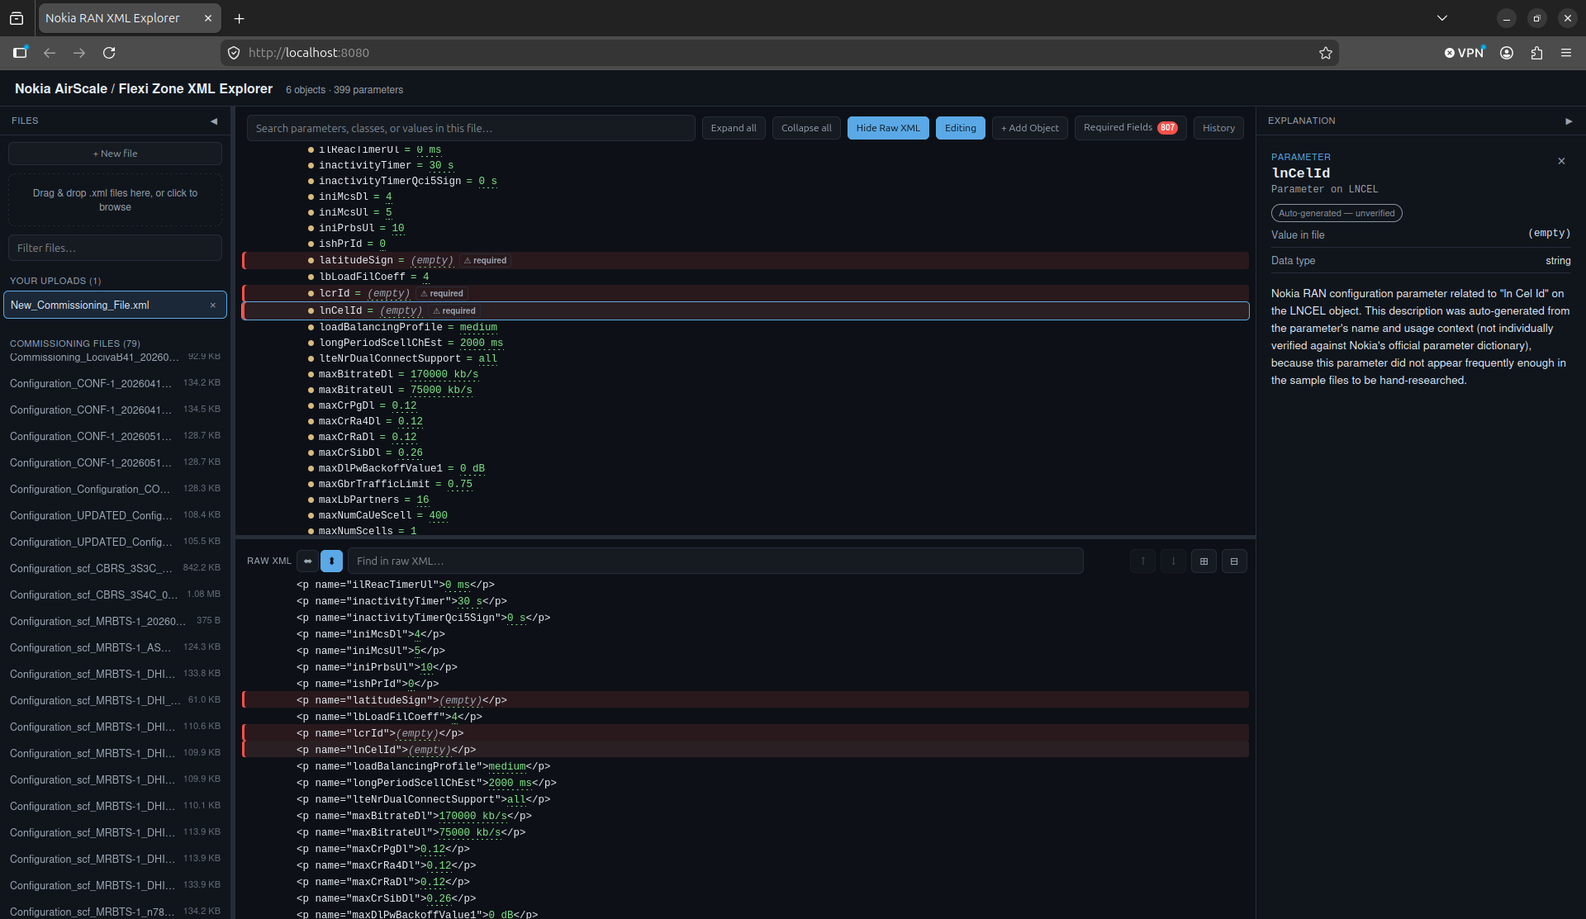
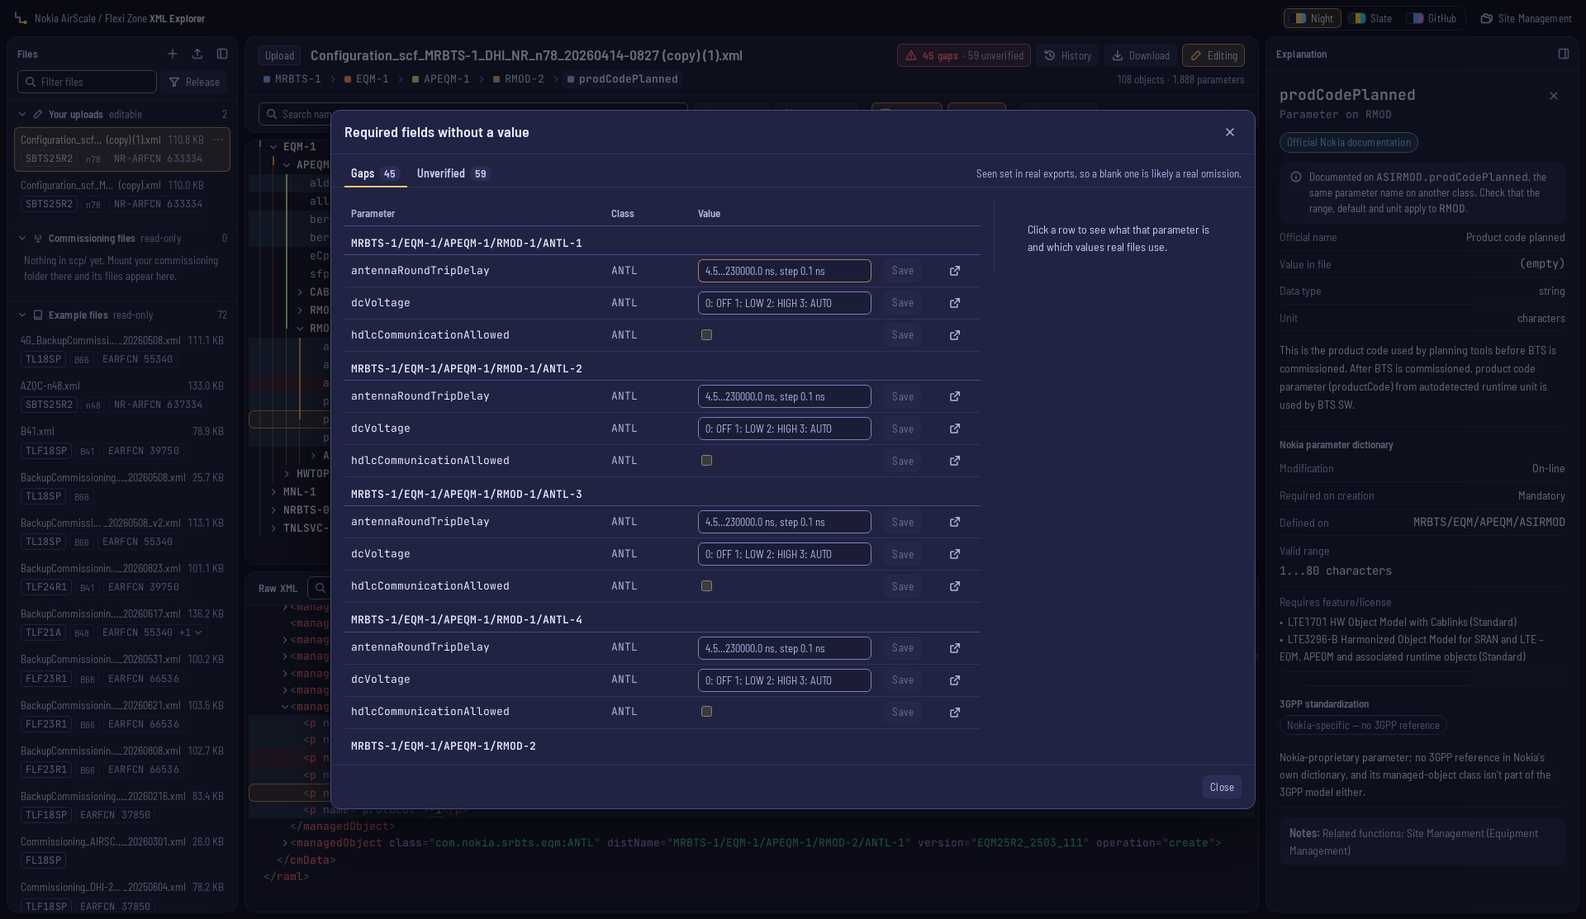
Update README, CLAUDE.md and screenshots for the new UI
README: the feature list now describes the current screen (Release
filter, Trace, keyboard, themes, Edit / Edit a copy, History labels,
Download, Required Fields Gaps/Unverified), the instance-id exception,
the new design docs, and two new limitations (desktop only, no row
virtualization). Both screenshots were retaken from example files.

CLAUDE.md: the instance-id rule and _is_mandatory(), the render-
performance and keyboard invariants, where the design system and theme
tokens live, desktop-only scope, and how the UI was verified.

diff --git a/README.md b/README.md
@@ -28,7 +28,7 @@ files never leave your machine.
 
 **Status:** early, functional, actively developed. `v0.07`.
 
-![Browsing a commissioning file side-by-side with its raw XML, with a full parameter explanation on the right](screenshots/main-page.png)
+![Browsing a commissioning file with its raw XML in sync underneath, the selected parameter's path traced in the header, and a full parameter explanation on the right](screenshots/main-page.png)
 
 Click any object, parameter, or table row for a plain-English explanation
 sourced from Nokia's own parameter dictionaries. The raw XML pane stays in
@@ -44,69 +44,84 @@ you still need to set, tracked file-wide in the "Required Fields" panel.
 
 - Lists every `.xml` file placed in `scp/` (your commissioning files),
   alongside your uploads and the bundled examples, as three collapsible
-  color-coded sidebar sections (collapsed state is remembered per
-  browser).
+  sidebar sections (collapsed state is remembered per browser).
 - Each file in the sidebar is tagged at a glance with its **BTS software
   release** (e.g. `SBTS20C`, `FLF23R1`, `TL18SP`) and its own cells'
   **EARFCN / NR-ARFCN** values (read from the file's contents), plus
   **band** and **export date** (parsed from the file name). The
-  **Filter** button in the top bar narrows the list to one or more
+  **Release** filter at the top of the file list narrows it to one or more
   software releases, grouped by family.
 - Parses the flat RAML `managedObject` list into a real parent/child tree,
   reconstructed from each object's `distName` path (equipment → cabinet →
   baseband/radio modules → LTE/NR cells → features), instead of the raw
   flat XML order.
-- **Click** a row to expand/collapse it. **Double-click** any object,
-  parameter, table (`list`), or table row for a full plain-English
-  explanation in the right-hand panel.
+- **Click** any object, parameter, table (`list`), or table row to expand it
+  and get a full plain-English explanation in the right-hand panel. Values
+  line up in one column, so a run of parameters scans top to bottom.
+- **Trace**: the selected row's path from the root lights up in the tree's
+  colour-coded depth guides, and the same path shows as a clickable address
+  in the file header (`MRBTS-1 › EQM-1 › APEQM-1 › …`), next to the file's
+  object and parameter counts.
 - Full-text search box filters the tree by parameter name, class, or value,
   highlighting matches inline. "Expand all" / "Collapse all" buttons for
   quickly opening up (or flattening) a whole file.
-- **Show Raw XML** splits the view to show the file exactly as written —
-  real tags, attributes, and nesting, drill-down collapsible like a browser's
-  built-in XML viewer — side by side with the reconstructed tree. Choose
-  **side-by-side or stacked (top/bottom)** layout, and drag to resize either
-  way. Clicking a node in **either** tree scrolls to, expands, and highlights
-  the corresponding node in the other. The raw pane has its own find bar
-  (with match count and prev/next navigation) for searching the literal XML
-  text.
+- **Raw XML** (toolbar toggle) shows the file exactly as written — real
+  tags, attributes, and nesting, syntax-coloured and drill-down collapsible
+  like a browser's built-in XML viewer — under the reconstructed tree or
+  side by side with it, and resizable either way. Clicking a node in
+  **either** pane scrolls to, expands, and highlights the corresponding node
+  in the other. The raw pane has its own find bar (with match count and
+  prev/next navigation) for searching the literal XML text.
+- **Keyboard**: both panes work as keyboard trees. Arrow keys move and
+  open/close, Home/End jump to the first/last row, Enter edits a value (or
+  opens a branch), Delete removes the selected row (tree pane), and
+  Shift+F10 or the menu key opens the row's menu. Dialogs close with Esc
+  and keep focus inside them.
 - The file sidebar and the explanation panel can each be collapsed to a thin
-  strip to reclaim screen space, and both are resizable by dragging their
-  edge.
-- **Highlight Official** (toolbar toggle, on by default) tints every row
-  whose explanation comes verbatim from Nokia's own parameter dictionary,
-  in both panes, so you can tell documented settings from researched or
-  heuristic ones without opening each one.
+  rail to reclaim screen space, and both resize by dragging the gap between
+  panels.
+- **Colour themes**: three dark themes — **Night** (the default), **Slate**
+  and **GitHub** — picked in the top bar and remembered per browser.
+- **Official** (toolbar toggle, on by default) tints every row whose
+  explanation comes verbatim from Nokia's own parameter dictionary, in both
+  panes, so you can tell documented settings from researched or heuristic
+  ones without opening each one.
 - **3GPP spec links**: the explanation panel shows whether a class or
   parameter is 3GPP-standardized, with direct links to the relevant
   specs, and says plainly when something is Nokia-proprietary or only
   inherits a class-level judgment rather than guessing a citation.
-- **Upload your own XML files** via the drag-and-drop card at the top of the
-  sidebar (or click it to browse). Uploaded files are validated as RAML XML
-  before being accepted, listed separately under "Your uploads," and can be
-  deleted from there with the × button.
-- **Edit Mode**: click any parameter's value (in either pane) to edit it in
-  place. `scp/` originals stay read-only forever — editing one first makes
-  an editable copy in "Your uploads" via a one-click banner, so the source
-  file is never touched. Every edit is validated (re-parsed) before being
-  written to disk. Parameters with a known, closed set of legal values
+- **Upload your own XML files** with the upload button at the top of the
+  file list, or drop them anywhere on the list. Uploaded files are validated
+  as RAML XML before being accepted and listed separately under "Your
+  uploads". Each file's "⋯" menu (or right-click) offers **Download** and
+  **Delete**; deleting asks first and says how many history snapshots go
+  with the file.
+- **Editing**: turn on **Edit** in the file header, then click any
+  parameter's value (in either pane) to edit it in place. `scp/` and example
+  files stay read-only forever — **Edit a copy** makes an editable copy in
+  "Your uploads" first, so the source file is never touched. Every edit is
+  validated (re-parsed) before being written to disk and confirmed with a
+  "Saved · Undo" notice. Parameters with a known, closed set of legal values
   (booleans and enums) edit through a dropdown instead of free text.
-- **History**: every edit automatically snapshots the file's prior state, so
-  you can open the History panel on any uploaded/edited file and restore an
-  earlier version if something goes wrong. Restoring itself is undoable —
-  it snapshots the current state first.
+- **History**: every edit automatically snapshots the file's prior state,
+  labelled with what changed (e.g. "Set pMax on NRCELL-0 to '420'"). Open
+  **History** in the file header to restore an earlier version if something
+  goes wrong. Restoring itself is undoable — it snapshots the current state
+  first.
+- **Download** any file's current contents from the file header.
 - A file-level "File Info" node explains the `raml`/`cmData`/`header`/`log`
   wrapper elements themselves.
-- **Generate new XML**: "+ New file" in the sidebar creates a blank, valid
-  commissioning file; "+ Add Object" builds a real `<managedObject>` from a
-  form — pick a parent (defaults to whatever's currently focused), pick a
+- **Generate new XML**: the **+** button at the top of the file list creates
+  a blank, valid commissioning file; **Add object** in the toolbar builds a
+  real `<managedObject>` from a form — pick a parent (defaults to whatever's
+  currently focused), pick a
   class (narrowed to classes actually observed under that parent in your
   corpus), fill in parameters with corpus-grounded suggestions, and it's
   appended with an auto-numbered `distName`, the right namespace-qualified
   class string, and a matching `version` borrowed from a sibling in the same
   file. Every generated object is re-parsed before being written, and, like
   any other edit, automatically snapshotted first.
-- **🗂 Site Management** (top of the page): a virtual folder/tag/site
+- **Site Management** (top bar): a virtual folder/tag/site
   catalog over every file the app knows about — uploads, `scp/`, and
   `example/` alike. Folders and tags are pure metadata (see
   `backend/app/sitemgmt.py`); creating, nesting, or deleting a folder, or
@@ -159,7 +174,7 @@ This tool ships a knowledge base built in three layers:
 3. **Generator parameter catalog.** `scripts/build_class_catalog.py` builds
    `backend/app/data/class_catalog.json`, additionally widening each class's
    known parameters with official-only ones never exercised by a sample file
-   (flagged `observed: false`, shown with a ⚑ in the "Add Object" form) —
+   (flagged `observed: false`, shown with a flag icon in the "Add object" form) —
    currently **1,682** such parameters across the corpus's 256 classes.
 
 Every explanation in the UI carries a **confidence badge**:
@@ -192,7 +207,7 @@ tools Nokia field engineers use (one with full VBA macros, reverse-engineered
 in `ref/` analysis). All three follow the same underlying pattern: one sheet
 per MO class, a header row of parameter names, one data row per instance,
 and a handful of leading columns whose values get concatenated into the
-`distName`. This tool's generator (`+ New file`, `+ Add Object`) implements
+`distName`. This tool's generator (New file, Add object) implements
 that same pattern natively, but goes further than the spreadsheets could:
 
 - `scripts/build_class_catalog.py` builds `backend/app/data/class_catalog.json`
@@ -206,7 +221,7 @@ that same pattern natively, but goes further than the spreadsheets could:
 - The catalog is then **widened twice over**:
   - With parameters valid for a class per the official dictionaries but
     never exercised by a sample file (marked `observed: false`, shown with
-    a ⚑) — these fall back to the official range text as a hint, since
+    a flag icon) — these fall back to the official range text as a hint, since
     there's no real-file value to ground a suggestion in yet.
   - With **every class either official dictionary documents** (490 total),
     not just the ~256 your corpus happens to use — so you can generate
@@ -236,7 +251,7 @@ that same pattern natively, but goes further than the spreadsheets could:
   cutoff.
 - **Every other Mandatory parameter is auto-filled with its real default,
   not left out.** For any Mandatory parameter you don't explicitly set,
-  `+ Add Object` writes its official default value into the generated
+  Add object writes its official default value into the generated
   `<managedObject>` automatically, so the object is usable as written rather
   than silently missing fields a strict Nokia loader would reject.
   `scripts/build_class_catalog.py`'s `resolve_default_for_xml()` does the
@@ -255,23 +270,35 @@ that same pattern natively, but goes further than the spreadsheets could:
   instead of being omitted. That way every Mandatory field is visible and
   accounted for right after creation, not something you have to already
   know to go add yourself. Both the logical tree and the Raw XML view
-  red-highlight (⚠ required) any row that's Mandatory per the docs but still
-  has no value — including the rare case (~1.6% of resolvable defaults) where
-  a documented default couldn't be confidently translated into a real-file
-  value, so it also comes through blank and flagged rather than silently
-  wrong. A **"Required Fields"** toolbar button (badge shows the live count)
-  opens a table of every such gap across the *whole file* — object, class,
-  parameter, and an inline input to fill it in on the spot via
-  `PUT /api/files/{filename}/objects/param`, the same upsert endpoint "+ Add
-  Parameter" uses — so you can clear every red flag from one place instead
-  of hunting through the tree row by row. Clicking a row opens a side panel
-  with that parameter's full explanation (description, valid range, unit,
-  values actually seen in your files) — the same information ExplainPanel
-  shows, built from the row data the endpoint already returns, no extra
-  lookup needed.
-- **You're not limited to what you set at creation.** Double-click any
-  managed object (in Edit Mode) for a "+ Add Parameter" button that offers
-  every remaining known parameter for that class — the generator form
+  red-highlight (with a "required" tag) any row that's Mandatory per the docs
+  but still has no value — including the rare case (~1.6% of resolvable
+  defaults) where a documented default couldn't be confidently translated
+  into a real-file value, so it also comes through blank and flagged rather
+  than silently wrong. The completeness control in the file header (e.g.
+  "41 gaps · 59 unverified") opens a **Required Fields** table of every such
+  parameter across the *whole file*, split into **Gaps** (parameters real
+  files do set) and **Unverified** (documented as Mandatory but never seen
+  set in any sample file) — object, class, parameter, and an inline input to
+  fill it in on the spot via `PUT /api/files/{filename}/objects/param`, the
+  same upsert endpoint "Add parameter" uses — so you can clear every red flag
+  from one place instead of hunting through the tree row by row. Clicking a
+  row opens a side panel with that parameter's full explanation
+  (description, valid range, unit, values actually seen in your files) — the
+  same information ExplainPanel shows, built from the row data the endpoint
+  already returns, no extra lookup needed.
+- **An object's own ID parameter is the one exception.** The dictionaries
+  list each class's instance-ID parameter (`nrcellId` on `NRCELL`, `rModId`
+  on `RMOD`, …) as Mandatory, but the ID already lives in the object's
+  `distName` (`RMOD-2`), and none of the real files in the corpus writes it
+  as a `<p>`. So the generator doesn't write it, the Add object form doesn't
+  ask for it (it has its own Instance ID field), it's never flagged as
+  missing, and an empty placeholder for it left by an older version of this
+  tool can be deleted. Every other Mandatory parameter is still always
+  written, filled or flagged.
+- **You're not limited to what you set at creation.** Select any managed
+  object (while editing) for an **Add parameter** button in the explanation
+  panel that offers every remaining known parameter for that class — the
+  generator form
   intentionally doesn't force you to fill in a class's entire parameter set
   up front (some have 500+), so this is how you come back and add more
   later without recreating the object.
@@ -283,7 +310,7 @@ that same pattern natively, but goes further than the spreadsheets could:
   expected, confirmed against the actual corpus, not a bug).
 - Every generated or added parameter is re-parsed before being written to
   disk, and, like any edit, automatically snapshotted first.
-- **"+ Add Object" cascades into required child objects, all the way down.**
+- **Add object cascades into required child objects, all the way down.**
   Neither official dictionary (nor any XSD -- there isn't one in `ref/`)
   records MO-class cardinality: they say whether a *parameter* is Mandatory,
   never whether a *child class* must exist at all under a given parent. The
@@ -303,15 +330,16 @@ that same pattern natively, but goes further than the spreadsheets could:
   (e.g. it won't guess a cell count) — just the minimum one instance needed
   to satisfy each inferred requirement.
 - **Objects and non-Mandatory parameters can be deleted, and objects can be
-  renamed** (Edit Mode) via `DELETE /api/files/{filename}/objects`,
+  renamed** (while editing) via `DELETE /api/files/{filename}/objects`,
   `DELETE /api/files/{filename}/objects/param`, and
-  `PUT /api/files/{filename}/objects/rename`. Two ways to reach these: a
-  small × button near the start of each row (deliberately placed right after
-  the label/tag rather than at the row's end, since a long value or distName
-  can push "the end" of a row past the visible edge of these
-  horizontally-scrolling panes), or **right-click any object or parameter
-  row for a context menu** -- the more reliable option, since it opens at
-  the cursor regardless of row width or scroll position. The context menu
+  `PUT /api/files/{filename}/objects/rename`. Three ways to reach these: a
+  small × button at the end of each tree row's label column (deliberately
+  there rather than at the row's end, since a long value or distName can
+  push "the end" of a row past the visible edge of these
+  horizontally-scrolling panes), the Delete key on a focused tree row, or
+  **right-click any object or parameter row (or press Shift+F10) for a
+  context menu** -- the more reliable option, since it opens at the row
+  regardless of row width or scroll position. The context menu
   also has **Rename**, which changes just an object's trailing instance
   number (e.g. `LNCEL-1` → `LNCEL-0`, same class and parent) and rewrites
   the same prefix on every descendant's `distName`, since RAML distNames are
@@ -378,6 +406,9 @@ anything longer-lived.
 
 ```
 CLAUDE.md               Short repo guide for Claude Code (commands, architecture invariants, data rules)
+PRODUCT.md              Who the tool is for, the jobs it does, and its brand commitments
+DESIGN.md               The UI design system ("Fiber Code"): themes, type, layout, shapes, components
+.impeccable/            Design-tool sidecar (design.json, surface notes) used by the Impeccable plugin
 example/                Bundled sample commissioning files, baked into the image (INCLUDE_EXAMPLES=false to hide)
 scp/                    Your Nokia commissioning/configuration XML files (read-only mount)
 uploads/                Files uploaded through the UI, and editable copies of scp/ files (writable mount)
@@ -388,7 +419,7 @@ ref/pdf/                Flat copy of every PDF found anywhere under ref/ (manual
 ref/extracted/          JSON extracted from ref/ by extract_official_reference.py / extract_sbts18a_reference.py
 backend/app/            FastAPI app: XML→tree parser, knowledge API, heuristic fallback, upload/edit/snapshot/generator handling
 backend/app/data/       Merged knowledge base (classes.json, parameters.json, class_catalog.json)
-frontend/               React + Vite tree-view UI
+frontend/               React + Vite tree-view UI (no UI library; fonts bundled via @fontsource, so it works offline)
 research/               Inputs/outputs of the knowledge-base research pass (not shipped in the image)
 scripts/extract_inventory.py          Re-scans scp/ for every class/parameter name in use
 scripts/build_knowledge.py            Merges research/output/* + heuristics into backend/app/data/*.json
@@ -444,6 +475,11 @@ they're offline tooling, not a runtime dependency of the app itself.
   renamed; `<list>`/`<item>` tables are read-only.
 - No authentication: run it locally or behind your own auth layer, not on
   the open internet.
+- **Desktop only.** The layout is built for a desktop browser window; it
+  isn't designed for phones or tablets.
+- **Very large files are slow to expand fully.** Every visible row is
+  rendered (no virtualization yet), so "Expand all" on a ~1 MB file with
+  ~23,000 rows takes 10+ seconds. Clicking and selecting stay fast.
 - Two files prefixed `WWW_` were added from a web search for publicly
   available Nokia sample files (see git-free provenance: they came from
   `github.com/ruboarm/Nokia-XML-Dump-Parser` and `github.com/SBramhesh/Motu`,

diff --git a/CLAUDE.md b/CLAUDE.md
@@ -31,7 +31,7 @@ cd frontend && npm run build                   # -> frontend/dist
 - Exercise the changed endpoints with `curl`.
 - Regression-check that every file in `scp/` and `example/` still parses through `GET /api/files/{name}/tree` and `/raw`.
 
-No one has ever tested the UI interactively in a browser, so frontend-only bugs (layout, React key reconciliation) won't show up in API checks.
+There is no browser test suite either. The UI refactor was checked with throwaway headless-Chromium (Playwright) scripts that aren't kept in the repo. Frontend-only bugs (layout, React key reconciliation, keyboard focus, render performance on the ~23k-row files) won't show up in API checks, so drive the UI in a browser after UI changes.
 
 ## Knowledge-base pipeline (offline, order matters)
 
@@ -81,13 +81,18 @@ Re-serialization normalizes whitespace, and that is accepted. `_serialize()` mus
 - "Mandatory" parameters with a resolvable default are auto-filled with the *real-file* value, not the documented enum code (`resolve_default_for_xml()`).
 - Mandatory parameters with no default are written as empty `<p name="X"/>` placeholders and flagged `requiredMissing`, never omitted. In `add_managed_object`, a `None` value is skipped but `""` is written.
 - Mandatory parameters can't be deleted.
-- `requiredMissing` is computed from `requiredOnCreation == "Mandatory"` plus the value being empty, not from the catalog's `trulyRequired` flag.
+- `requiredMissing` is computed from `_is_mandatory()` plus the value being empty, not from the catalog's `trulyRequired` flag.
+- The one exception to all three rules is a class's own instance-id parameter (`nrcellId` on `NRCELL`, `rModId` on `RMOD`; `_is_instance_id_param`). The dictionaries call it Mandatory, but the id lives in the `distName` and no file in the corpus writes it as a `<p>`. `_is_mandatory()` returns False for it, so the generator doesn't write it, it's never flagged, it can be deleted, and `GET /api/catalog/classes/{name}` leaves it out of the Add Object form. Route every Mandatory check through `_is_mandatory()`.
 - Required child classes come from a corpus heuristic (the child is present under every observed parent instance) and are created recursively.
 - Only scalar `<p>` parameters are supported; `<list>`/`<item>` tables are read-only.
 
 **Site Management** is a pure metadata layer (folders, tags, sites) stored as JSON in `sitemgmt/`. It never moves or renames real files. Metadata is keyed by `(source, filename)`, not bare filename; a collision bug came from that (§10.6).
 
-**Frontend.** All cross-cutting state lives in `App.jsx` and is passed down as props. `src/api.js` wraps every endpoint. Use the in-app toast/confirm/prompt components; never native `alert`/`confirm`/`prompt`. `scrollToDataId` uses a double `requestAnimationFrame` plus a retry loop on purpose; if the scroll sync regresses, look there first.
+**Frontend.** All cross-cutting state lives in `App.jsx` and is passed down as props. `src/api.js` wraps every endpoint. Use the in-app toast/confirm/prompt components and the shared `Modal` shell; never native `alert`/`confirm`/`prompt`. `scrollToDataId` uses a double `requestAnimationFrame` plus a retry loop on purpose; if the scroll sync regresses, look there first.
+- **Render performance is load-bearing.** Tree and raw rows are `memo`ized with prefix-aware comparators (`sameRow` in `TreeView.jsx`, `sameRawRow` in `RawXmlView.jsx`) that rely on the id scheme above, and App passes stable callbacks (`useStableCallback`). A new prop that names one node must go in the comparator's target list. A new callback must be stable. The focus effect must hand back the *same* `expanded` Set when nothing needs opening, because a new Set re-renders every row (seconds on the big files).
+- **Keyboard.** Both panes are WAI-ARIA trees with a roving tab stop (`tabbableId` / `rawTabbableId`, computed in App). Arrow keys move DOM focus, and the shared focus follows it.
+- **Look.** `DESIGN.md` is the design system and `PRODUCT.md` the product brief; read them before UI work. Colours are CSS tokens in the theme blocks at the top of `styles.css` (Night is the default; Slate and GitHub are set via `data-theme` on `<html>`). Soft tints are derived with `color-mix`, so add colours as tokens, never as literals in components. Each pane is a rounded panel on `--bg-page`, and the gutters between panels are the resize handles.
+- **Desktop only.** The owner targets desktop browsers; don't spend effort on phone or tablet layouts.
 
 ## Data handling rules
 
